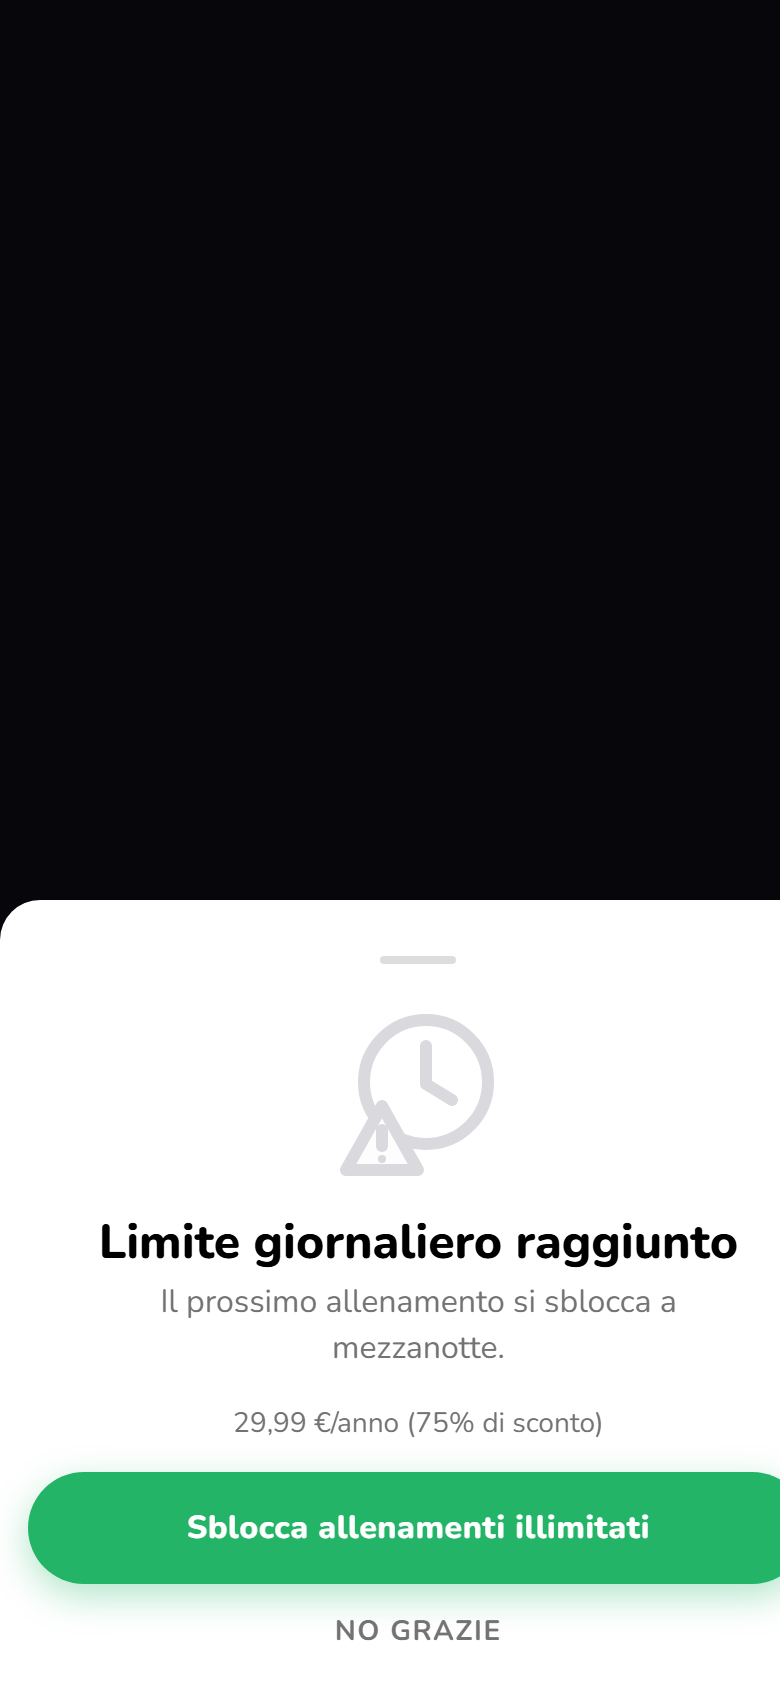
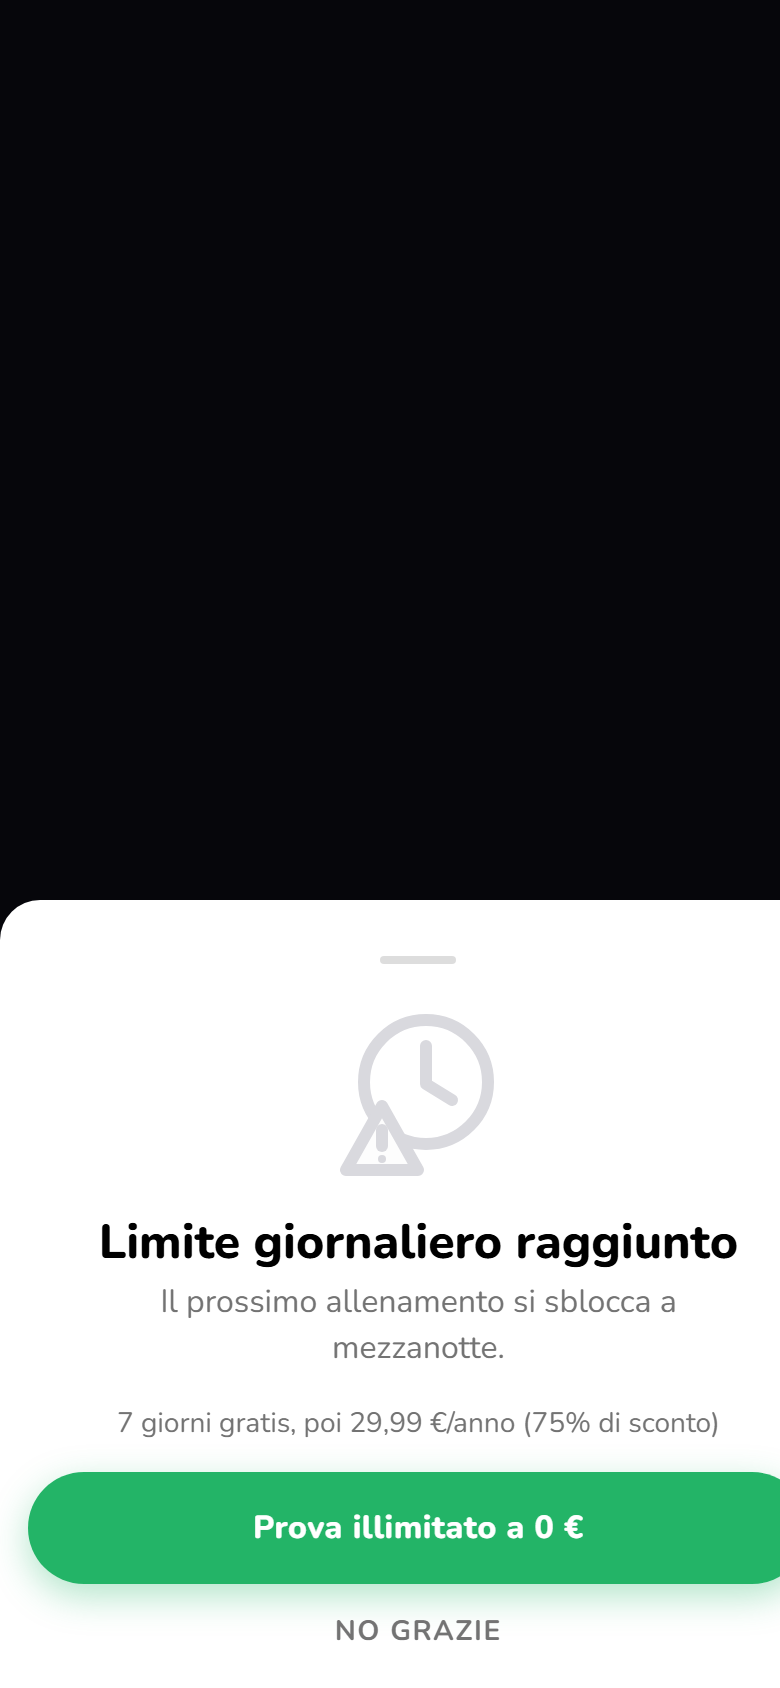
feat(kpi): la scheda del paywall di partenza con la prova, e la sheet del limite dice che la prova c'è
Nuova voce onboarding_trial in CREATIVE_REGISTRY/CREATIVE_LABELS: terza
creatività sulla stessa schermata del paywall di partenza, un bottone unico
sull'offerta Play freetrial-7d. La nota di daily_limit_sheet non dice più
"non attiva": verificato il 25/09 che arriva sull'annuale a circa l'88% dei
telefoni, e lo scatto rigenerato mostra il ramo con la prova invece di quello
senza. PAYWALL_SHOT_V bumpato a 20260925a.

Changed region(s): [[0.1846, 0.8318, 0.9231, 0.8626], [0.2462, 0.8934, 0.8308, 0.9242]]

diff --git a/public/internal/js/kpi.js b/public/internal/js/kpi.js
@@ -7504,7 +7504,7 @@ function sezioneTimeoutBox(msg, retryCall) {
 // mostrare i byte vecchi anche con no-cache (successo il 17/09/2026: la miniatura di
 // «Fine onboarding · grafico» mostrava ancora «programma pronto», che era il contenuto
 // precedente di quel file). Da bumpare a ogni giro di paywall-shots.mjs.
-const PAYWALL_SHOT_V = '20260921a';
+const PAYWALL_SHOT_V = '20260925a';
 
 const CREATIVE_REGISTRY = [
   {
@@ -7535,6 +7535,21 @@ const CREATIVE_REGISTRY = [
     file: 'app/src/pages/AppOpenPaywall/AppOpenPaywall.tsx',
     screens: [
       { idx: 0, t: 'La pagina', d: 'si scorre tutta: grafico, benefici, recensioni, numeri, piani' },
+    ],
+  },
+  {
+    variant: 'onboarding_trial',
+    name: 'Paywall di partenza · con la prova',
+    rotation: 'retired',
+    where: 'Oggi solo l\'anteprima /dev (voce «Paywall di partenza · con la prova»). È pensata per la stessa pagina intera del paywall di partenza, a fine onboarding.',
+    when: 'Nata il 25/09/2026 e non ancora in app: nessun punto del codice la monta. Quando andrà in rotazione starà ACCANTO al paywall di partenza, non al suo posto — la domanda sarà quale dei due converte di più.',
+    exit: 'La × in alto a sinistra, che compare a grafico finito, o il tasto indietro di Android. Nessun «continua gratis», come nel paywall di partenza.',
+    what: 'La schermata del paywall di partenza, identica sopra la barra: titolo coi minuti scelti, grafico che si disegna, benefici per obiettivo, recensioni che scorrono, chiusura sul numero degli allenamenti. In basso, al posto delle due schede dei piani, UN bottone crema «Prova 7 giorni gratis» e sotto, in piccolo, «Poi 29,99 € l\'anno, cioè 2,50 € al mese» e «Nessun addebito se disdici entro i 7 giorni». Solo l\'annuale: il mensile non c\'è. Poi Termini · Privacy · Ripristina.',
+    cta: 'Il bottone compra l\'annuale con l\'offerta `freetrial-7d` NOMINATA, passata identica al catalogo e all\'acquisto: i giorni e le cifre scritti sono quelli dell\'offerta che il tocco paga. Se il catalogo di quel telefono non ha la prova — account che l\'ha già consumata, o offerta spenta su Console — il bottone diventa «Inizia con l\'annuale · 29,99 €» e la schermata non nomina più la prova. `cta_copy` riporta la chiave esatta del bottone: `onboarding_start.trial.cta` (con la prova), `onboarding_start.trial.cta_plain` (senza), `onboarding_start.trial.cta_plain_noprice` (catalogo non ancora letto). ⚠ Limite noto: senza la prova il ripiego è la scala generica di `pickPreferredOffer` — oggi il piano base 29,99 €/anno, ma se un giorno comparissero le rate o `discount-19` senza la prova, il bottone venderebbe quelle con il testo del piano base.',
+    note: 'Creatività separata da `onboarding_start` per scelta esplicita di Mattia: le due vanno lette come due righe, mai sommate. Stesso KPI di guardia del paywall di partenza — primo allenamento entro 48h — quando entrerà in rotazione.',
+    file: 'app/src/pages/OnboardingTrialPaywall/OnboardingTrialPaywall.tsx',
+    screens: [
+      { idx: 0, t: 'La pagina', d: 'si scorre tutta: grafico, benefici, recensioni, numeri, e in basso il bottone della prova' },
     ],
   },
   {
@@ -7624,7 +7639,7 @@ const CREATIVE_REGISTRY = [
     when: 'Dal 18/09/2026, quando un utente non premium prova ad avviare il SECONDO allenamento della giornata (ne ha già chiuso uno oggi). La giornata finisce a mezzanotte LOCALE del telefono, perché la sheet dice «si sblocca a mezzanotte» e la persona guarda l\'orologio che ha in mano. Non esce a chi riprende un allenamento col segnalibro, e in ogni dubbio — stato premium non ancora letto, conteggio in volo — si passa. Dal 20/09 anche dal tasto della Home, che è da dove la gente parte davvero: prima il muro arrivava una schermata dopo.',
     exit: '«No grazie» è l\'uscita dichiarata, l\'unica che si conta come rifiuto esplicito (`continue_free`). Non c\'è nessuna ×: swipe, tocco fuori e tasto indietro restano e si registrano come `x_button`. A pagamento aperto non si chiude.',
     what: 'Un muro e una sola offerta, comprabile in un tocco senza passare dalla pagina dei piani — chi è qui stava per allenarsi e si è trovato fermato, e mettergli un confronto fra due tessere tra l\'intenzione e il pagamento è il modo di perderlo. Orologio col triangolo, «Limite giornaliero raggiunto», «Il prossimo allenamento si sblocca a mezzanotte», la riga del prezzo dell\'annuale con lo sconto sul mensile fra parentesi, il pulsante che compra, «No grazie». Il mensile non è nominato, quindi da qui non è comprabile.',
-    note: 'L\'offerta nominata è `freetrial-7d`, che su Play Console non è attiva: il catalogo non la manda, la sheet ripiega sul listino e smette DA SOLA di nominare la prova (la CTA passa da «Prova illimitato a 0 €» a «Sblocca allenamenti illimitati»). Se qualcuno la riattiva i sette giorni ricompaiono senza toccare il codice, e lo scatto qui sopra invecchia lo stesso giorno. La percentuale di sconto si calcola sui prezzi vivi, mai a mano.',
+    note: 'L\'offerta nominata è `freetrial-7d`. Era spenta su Play Console al 18/09/2026 ed è stata riattivata: il 25/09/2026 arrivava sull\'annuale a circa 88 telefoni su 100 (evento `paywall_product_updated`, `has_trial_offer`), quindi oggi quasi tutti vedono «Prova illimitato a 0 €». Chi non la riceve — account che l\'ha già consumata — vede «Sblocca allenamenti illimitati»: la sheet ripiega sul listino e smette DA SOLA di nominare la prova. La percentuale di sconto si calcola sui prezzi vivi, mai a mano.',
     file: 'app/src/components/PremiumProposals/DailyLimitPaywall/DailyLimitFlow.tsx',
     screens: [
       { idx: 0, t: 'La sheet', d: 'il muro, l\'orario di sblocco, il prezzo dell\'annuale con lo sconto, il pulsante che compra e «No grazie»' },
@@ -8679,6 +8694,7 @@ function creativeModal() {
 const CREATIVE_LABELS = {
   onboarding_start: 'Paywall di partenza',
   app_open: 'Paywall apertura app',
+  onboarding_trial: 'Paywall di partenza · con la prova',
   welcome_offer: 'Offerta di benvenuto',
   daily_limit_sheet: 'Limite giornaliero',
   // Le cinque qui sotto avevano la scheda nel registro ma non l'etichetta: nella
